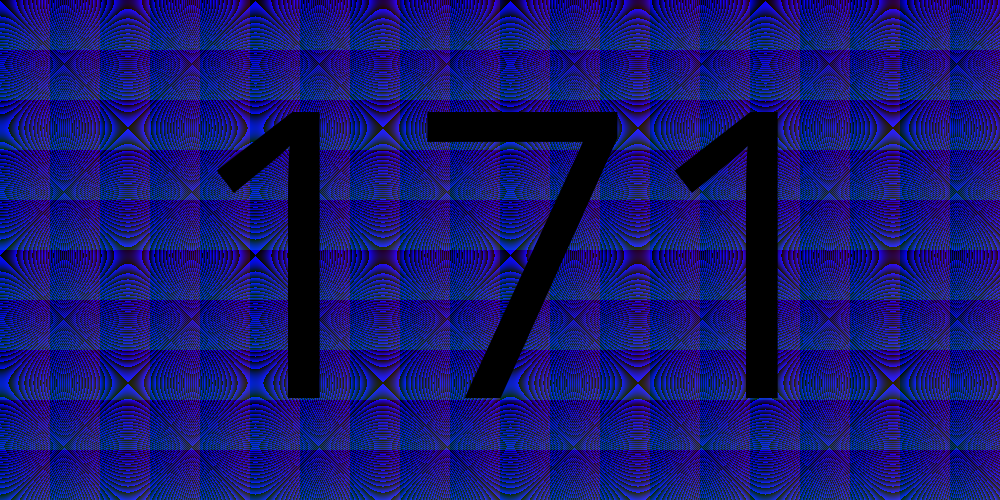
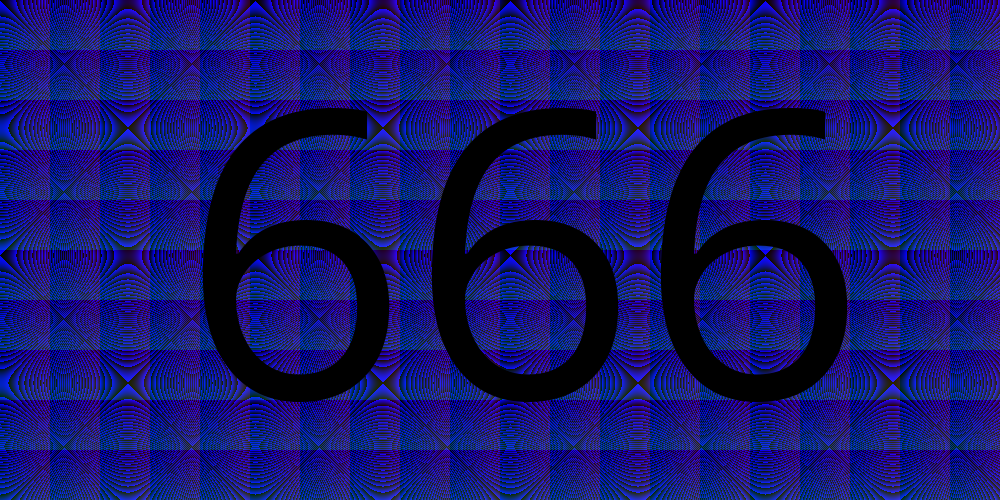
feat: updating number

diff --git a/ini.py b/ini.py
@@ -4,7 +4,8 @@ from PIL import ImageFont
 from PIL import ImageDraw
 
 img = Image.new('RGB', (1000, 500), (250,250,250))
-data = img.load();
+data = img.load()
+number = "666"
 
 for x in range(img.size[0]):
     for y in range(img.size[1]):
@@ -16,6 +17,6 @@ for x in range(img.size[0]):
 
 draw = ImageDraw.Draw(img)
 font = ImageFont.truetype("OpenSans-Regular.ttf", 400)
-draw.text((180, -30), "666",(0,0,0),font=font)
+draw.text((180, -30), number, (0,0,0), font=font)
 
 img.save('image.png')
